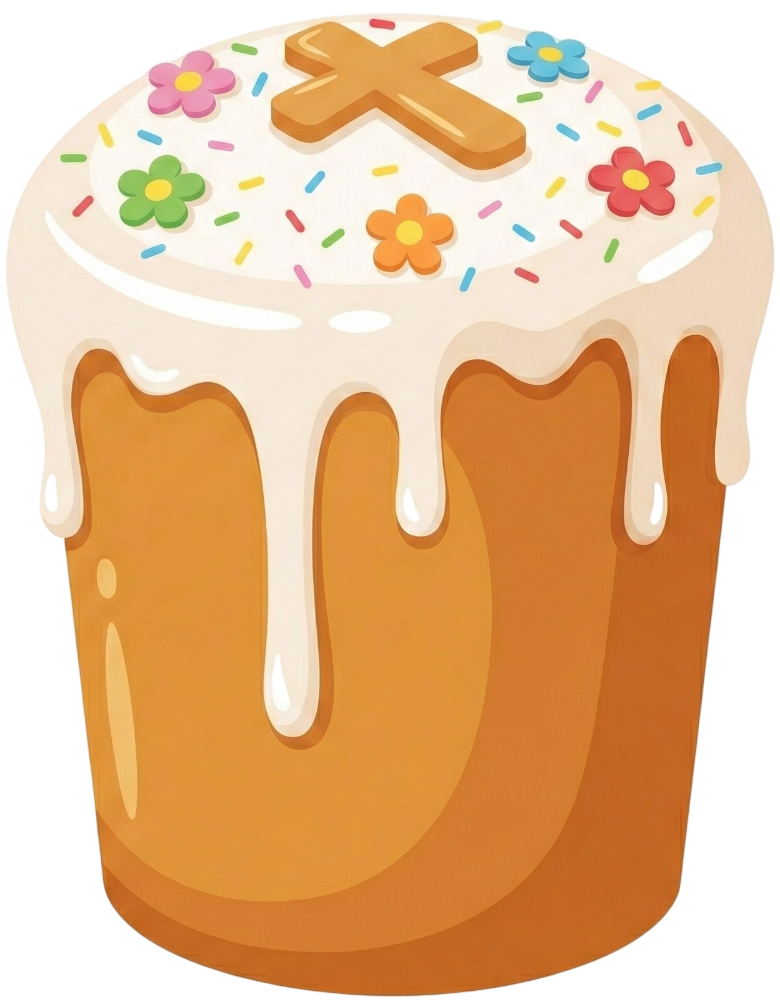
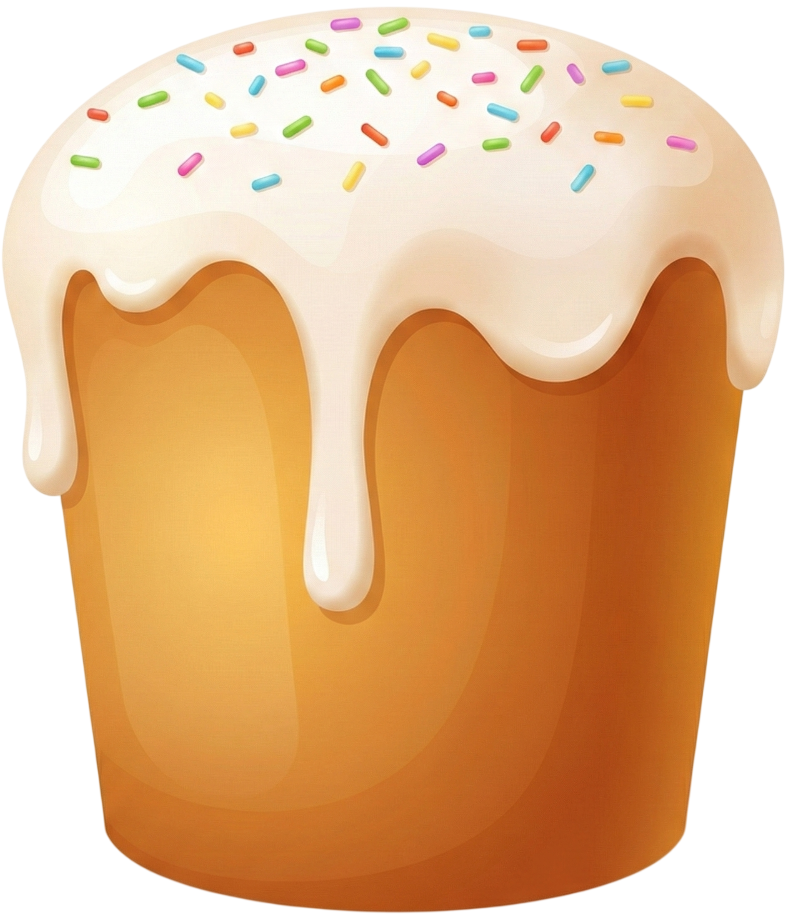
fix: edited volume for music and changed item.

diff --git a/main/js/index.js b/main/js/index.js
@@ -484,7 +484,7 @@ function createPhysicsThread() {
         } else {
             if (backgroundMusic.muted || backgroundMusic.volume === 0) {
                 backgroundMusic.muted = false;
-                backgroundMusic.volume = 0.5;
+                backgroundMusic.volume = 1;
                 isMuted = false;
             } else {
                 backgroundMusic.muted = true;
